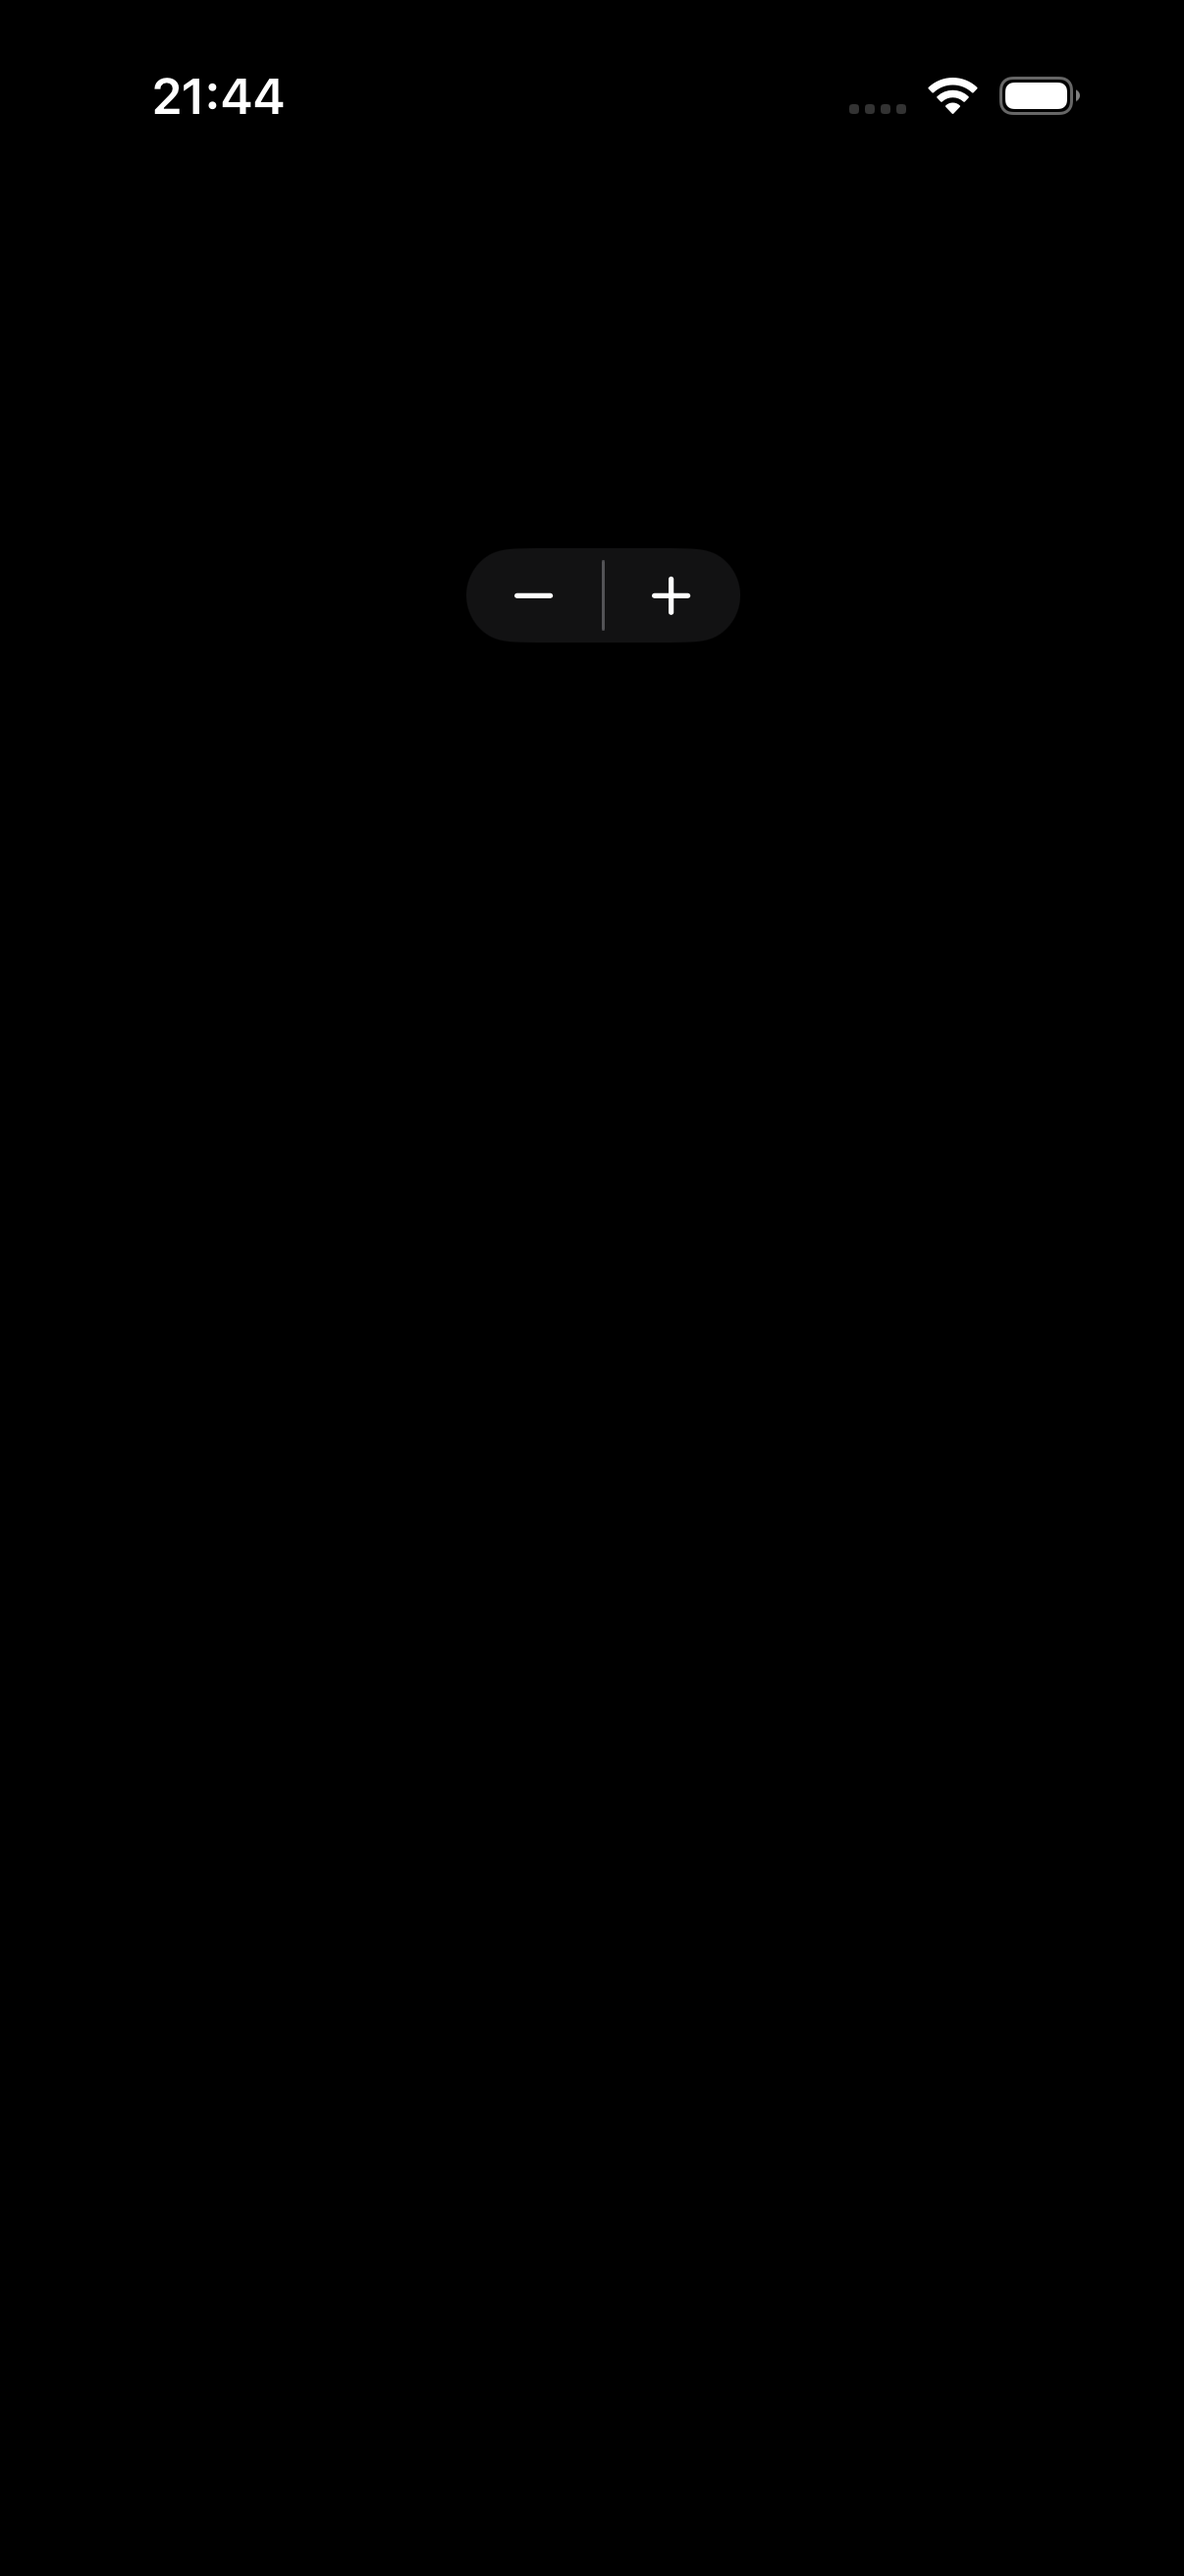
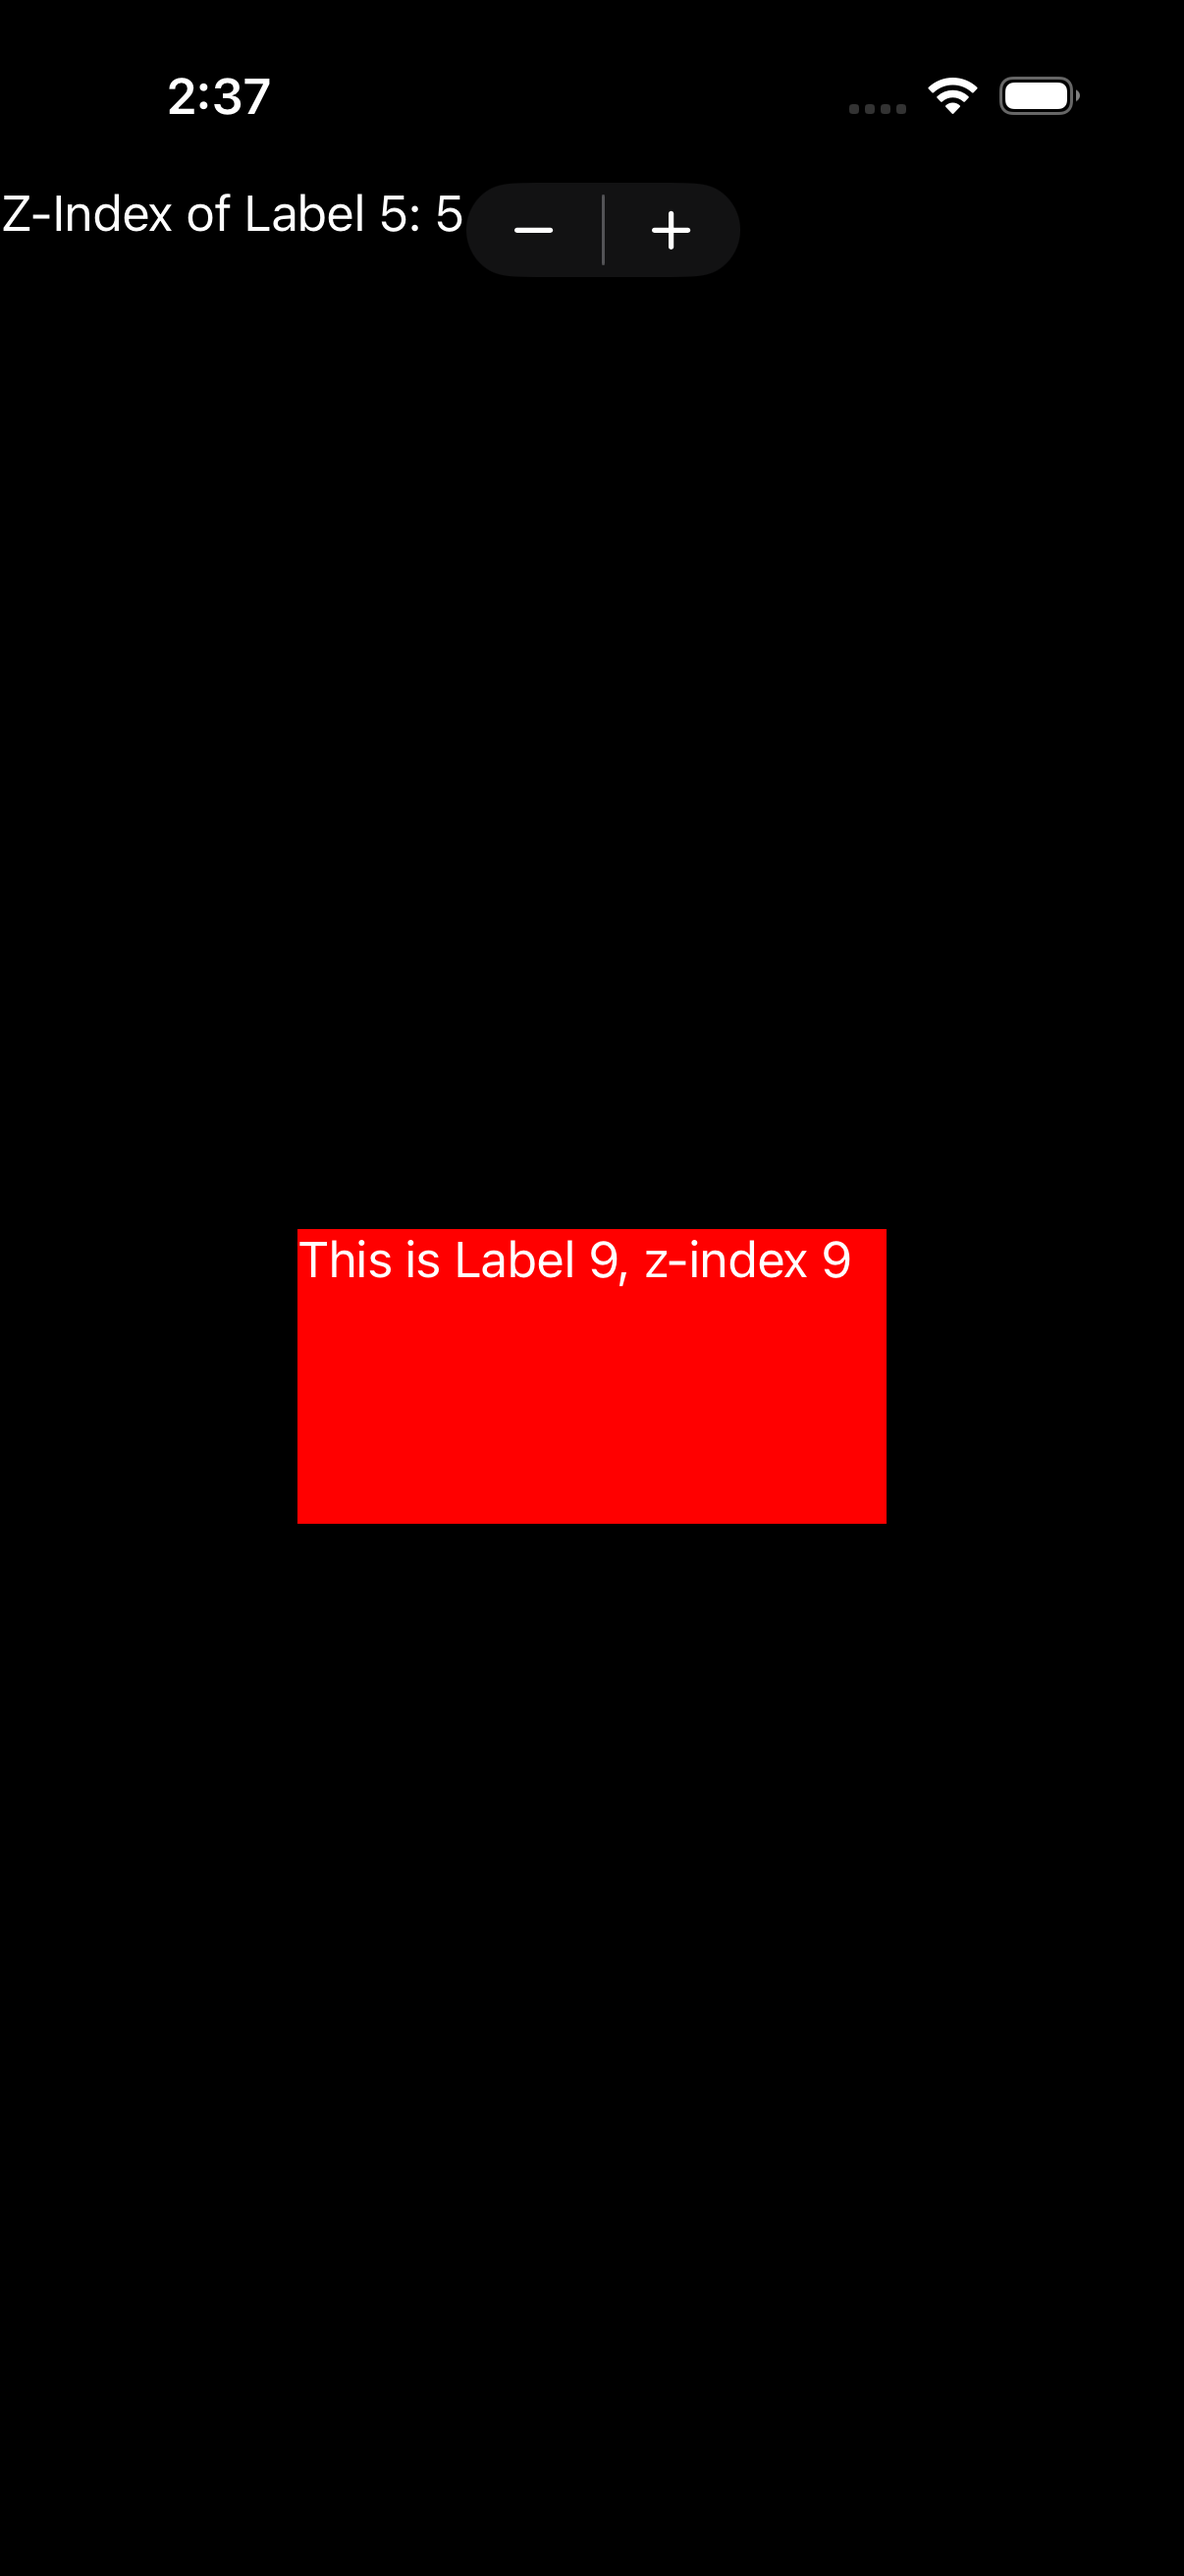
docs(parity): #39 z_index — minor (ZIndex works; Margin cascade flagged)
The ZIndex feature renders correctly: the highest-z-index label (9, red)
paints on top and its background shows (label MapBackground fix); the
readout + stepper bar render. Documented deviation: C# cascades each
label by Margin=n*15 (diagonal fan of all 10); the port has no settable
VisualElement.Margin (margin() hardcoded {}), so the labels stack at one
spot and only the top shows. Flagged Margin for implementation (the
arrange half already honors it). Tracker -> minor L/D.

diff --git a/port/cpp/docs/comparison/README.md b/port/cpp/docs/comparison/README.md
@@ -2,7 +2,7 @@
 
 Theme-matched iOS comparison: each page rendered by **real .NET MAUI** vs the **C++ port**, on the same iPhone 17 simulator, compared **light-vs-light** and **dark-vs-dark**. Both stacks render native-default controls + the system font (the C# app's `dotnet new maui` default `Styles.xaml` + OpenSans are stripped; appearance forced via `MAUI_THEME` / `MAUI_APPEARANCE`). Goal: pixel-perfect parity, fixed example-by-example.
 
-**Progress: 0 / 172 🟢 matched** · 36 🟡 minor · 45 🔴 diff · 91 ⬜ pending
+**Progress: 0 / 172 🟢 matched** · 37 🟡 minor · 45 🔴 diff · 90 ⬜ pending
 
 Status legend: 🟢 pixel-match (both themes) · 🟡 minor diff · 🔴 notable diff to fix · ⬜ not yet reviewed. Per-theme verdicts in `parity_status.json`.
 
@@ -50,7 +50,7 @@ Rows are in **fix order** (top → bottom): foundational single controls first (
 | 36 | Flex Layout | 🟡<br>L:minor<br>D:minor | ![](csharp_ios_light/flex_layout.png) | ![](cpp_ios_light/flex_layout.png) | ![](csharp_ios_dark/flex_layout.png) | ![](cpp_ios_dark/flex_layout.png) |
 | 37 | Relative Layout | 🟡<br>L:minor<br>D:minor | ![](csharp_ios_light/relative_layout.png) | ![](cpp_ios_light/relative_layout.png) | ![](csharp_ios_dark/relative_layout.png) | ![](cpp_ios_dark/relative_layout.png) |
 | 38 | Layout alignment (Start/Center/End/Fill) | 🟡<br>L:minor<br>D:minor | ![](csharp_ios_light/alignment.png) | ![](cpp_ios_light/alignment.png) | ![](csharp_ios_dark/alignment.png) | ![](cpp_ios_dark/alignment.png) |
-| 39 | Z Index | ⬜<br>L:pending<br>D:pending | ![](csharp_ios_light/z_index.png) | ![](cpp_ios_light/z_index.png) | ![](csharp_ios_dark/z_index.png) | ![](cpp_ios_dark/z_index.png) |
+| 39 | Z Index | 🟡<br>L:minor<br>D:minor | ![](csharp_ios_light/z_index.png) | ![](cpp_ios_light/z_index.png) | ![](csharp_ios_dark/z_index.png) | ![](cpp_ios_dark/z_index.png) |
 | 40 | Layout Is Enabled | ⬜<br>L:pending<br>D:pending | ![](csharp_ios_light/layout_is_enabled.png) | ![](cpp_ios_light/layout_is_enabled.png) | ![](csharp_ios_dark/layout_is_enabled.png) | ![](cpp_ios_dark/layout_is_enabled.png) |
 | 41 | Shapes | 🔴<br>L:diff<br>D:diff | ![](csharp_ios_light/shapes.png) | ![](cpp_ios_light/shapes.png) | ![](csharp_ios_dark/shapes.png) | ![](cpp_ios_dark/shapes.png) |
 | 42 | Ellipse Gallery | 🔴<br>L:diff<br>D:diff | ![](csharp_ios_light/ellipse_gallery.png) | ![](cpp_ios_light/ellipse_gallery.png) | ![](csharp_ios_dark/ellipse_gallery.png) | ![](cpp_ios_dark/ellipse_gallery.png) |
